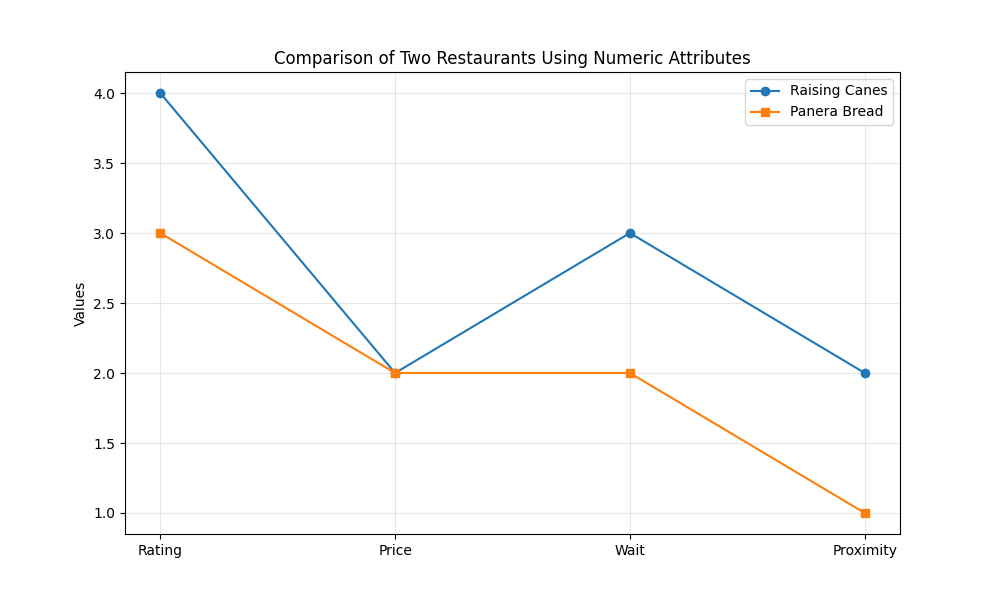
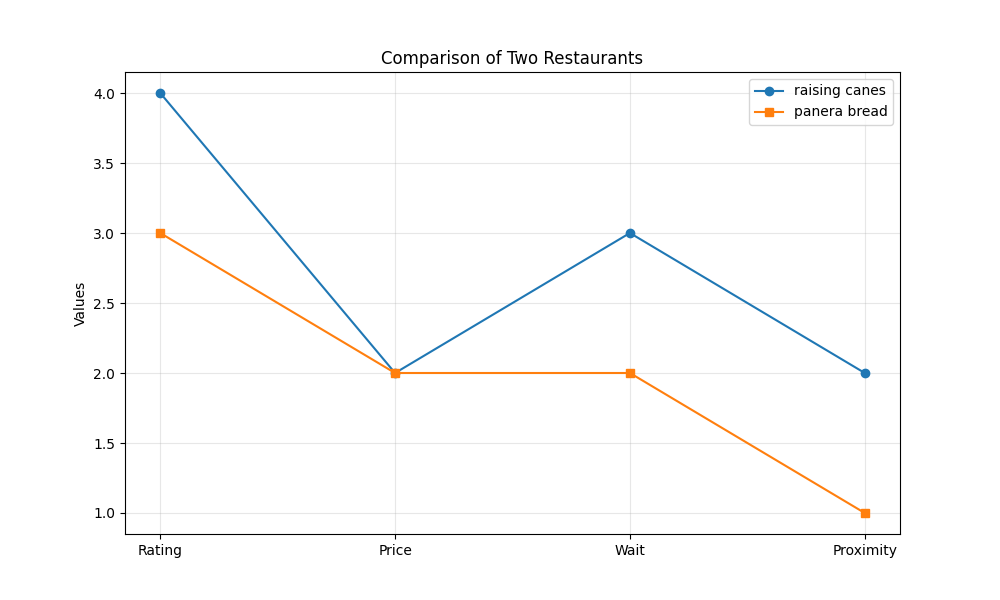
hw2 done but not wokring

Changed region(s): [[0.279, 0.09, 0.744, 0.12], [0.744, 0.12, 0.899, 0.21]]

diff --git a/Homework/Homework2/recommendation.py b/Homework/Homework2/recommendation.py
@@ -1,0 +1,110 @@
+import csv
+import matplotlib.pyplot as plt
+
+from Homework.Homework2.food import Food
+
+path = "./food_recommendatiosn.csv"
+all_food = []
+
+
+def part1_questions(foods):
+    print("give 2 names of restaurants press enter for each")
+    food_dict = {food.name: food for food in foods}
+    while True:
+        restaurant1 = str(input("1. "))
+        restaurant2 = str(input("2. "))
+
+        if restaurant1 in food_dict or restaurant2 in food_dict:
+            break
+        else:
+            print("not in the csv")
+
+    distance = food_dict[restaurant1].distance(food_dict[restaurant2])
+
+    ratings = 0
+    for food in foods:
+        ratings += float(food.rating)
+
+    price = 0
+    for food in foods:
+        price += float(food.price)
+
+    wait = 0
+    for food in foods:
+        if food.wait >= 3:
+            wait += 1
+
+    laneys_bgood = Food("Laney's B.Good", "8am-7pm", "American", "vegan friendly", 5, 2, 4, 1)
+
+    min_distance = float('inf')
+    most_similar = None
+
+    for food in foods:
+        current_distance = laneys_bgood.distance(food)
+        if current_distance < min_distance:
+            min_distance = current_distance
+            most_similar = food
+
+    print(f"1. Euclidean distance: {distance}")
+    print(f"2. mean ratings: {ratings/len(foods)}")
+    print(f"3. mean price: {price/len(foods)}")
+    print(f"4. wait: {wait}")
+    print(f"5-6. The most similar Laney's B.Good is {most_similar.name} with a distance of {min_distance}")
+
+def part2_visualization(foods):
+    laneys_bgood = Food("Laney's B.Good", "8am-7pm", "American", "vegan friendly", 5, 2, 4, 1)
+    plt.figure(figsize=(8, 6))
+    ratings = [food.rating for food in foods]
+    prices = [food.price for food in foods]
+
+    plt.scatter(ratings, prices, label='Restaurants', color='blue', alpha=0.6)
+    plt.scatter(laneys_bgood.rating, laneys_bgood.price, label="Laney's B.Good", color='red', s=100, edgecolors='black')
+
+    plt.title("Rating vs Price Comparison")
+    plt.xlabel("Rating")
+    plt.ylabel("Price")
+    plt.legend()
+    plt.grid(alpha=0.3)
+    plt.savefig("plot1_rating_vs_price.png")
+    plt.close()
+
+    restaurant1 = foods[0]
+    restaurant2 = foods[1]
+
+    labels = ['Rating', 'Price', 'Wait', 'Proximity']
+    values1 = [restaurant1.rating, restaurant1.price, restaurant1.wait, restaurant1.proximity]
+    values2 = [restaurant2.rating, restaurant2.price, restaurant2.wait, restaurant2.proximity]
+
+    x = range(len(labels))
+
+    plt.figure(figsize=(10, 6))
+    plt.plot(x, values1, label=restaurant1.name, marker='o')
+    plt.plot(x, values2, label=restaurant2.name, marker='s')
+
+    plt.title("Comparison of Two Restaurants")
+    plt.xticks(x, labels)
+    plt.ylabel("Values")
+    plt.legend()
+    plt.grid(alpha=0.3)
+    plt.savefig("plot2_restaurant_comparison.png")
+    plt.close()
+
+if __name__ == "__main__":
+    with open(path, mode='r') as file:
+        reader = csv.reader(file)
+        header = next(reader)
+
+        for row in reader:
+            name = row[0]
+            rating = float(row[1])
+            price = float(row[2])
+            wait = int(row[3])
+            proximity = int(row[4])
+            hours = row[5]
+            category = row[6]
+            features = row[7]
+            food = Food(name, hours, category, features, rating, price, wait, proximity)
+            all_food.append(food)
+
+    part1_questions(all_food)
+    part2_visualization(all_food)

diff --git a/Homework/Homework2/food.py b/Homework/Homework2/food.py
@@ -1,4 +1,47 @@
+import math
 
+class Food:
+    """
+    Represents a food item with various attributes.
+    """
+    def __init__(self, name, hours, category, features, rating, price, wait, proximity):
+        """
+        Initialize a Food object.
+        :param name: Name of the food.
+        :param hours: Hours of operation.
+        :param category: Category/type of food.
+        :param features: Features of the food (string).
+        :param rating: Rating of the food (int).
+        :param price: Price level of the food (int).
+        :param wait: Wait time for the food (int).
+        :param proximity: Proximity to the user (int).
+        """
+        self.name = name.strip().lower()
+        self.hours = hours
+        self.category = category
+        self.features = features
+        self.rating = int(rating)
+        self.price = int(price)
+        self.wait = int(wait)
+        self.proximity = int(proximity)
 
-class Food: 
-    def __init__(name, hours, category, features, rating, price, wait, proximity):
+    def distance(self, other):
+        """
+        Calculate the Euclidean distance between two Food objects based on
+        quantitative attributes.
+        :param other: Another Food object to compare with.
+        :return: Euclidean distance (float).
+        """
+        return math.sqrt(
+            (self.rating - other.rating) ** 2 +
+            (self.price - other.price) ** 2 +
+            (self.wait - other.wait) ** 2 +
+            (self.proximity - other.proximity) ** 2
+        )
+
+    def __str__(self):
+        """
+        String representation of the Food object.
+        :return: A string with the name, hours, category, and features.
+        """
+        return f'{self.name} ({self.hours}, {self.category}, Features: {self.features})'

diff --git a/Homework/Homework1/team.py b/Homework/Homework1/team.py
@@ -1,6 +1,5 @@
 import matplotlib.pyplot as plt
 
-
 class Team:
 
     def __init__(self, name, x=0, y=0, color="purple"):
